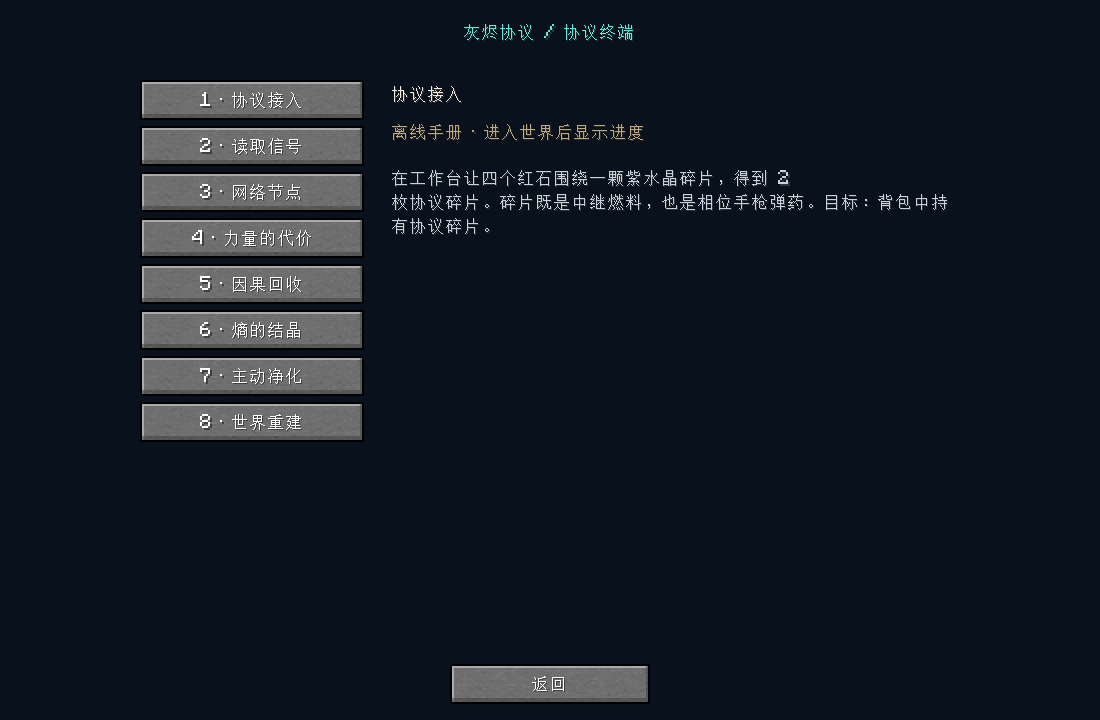
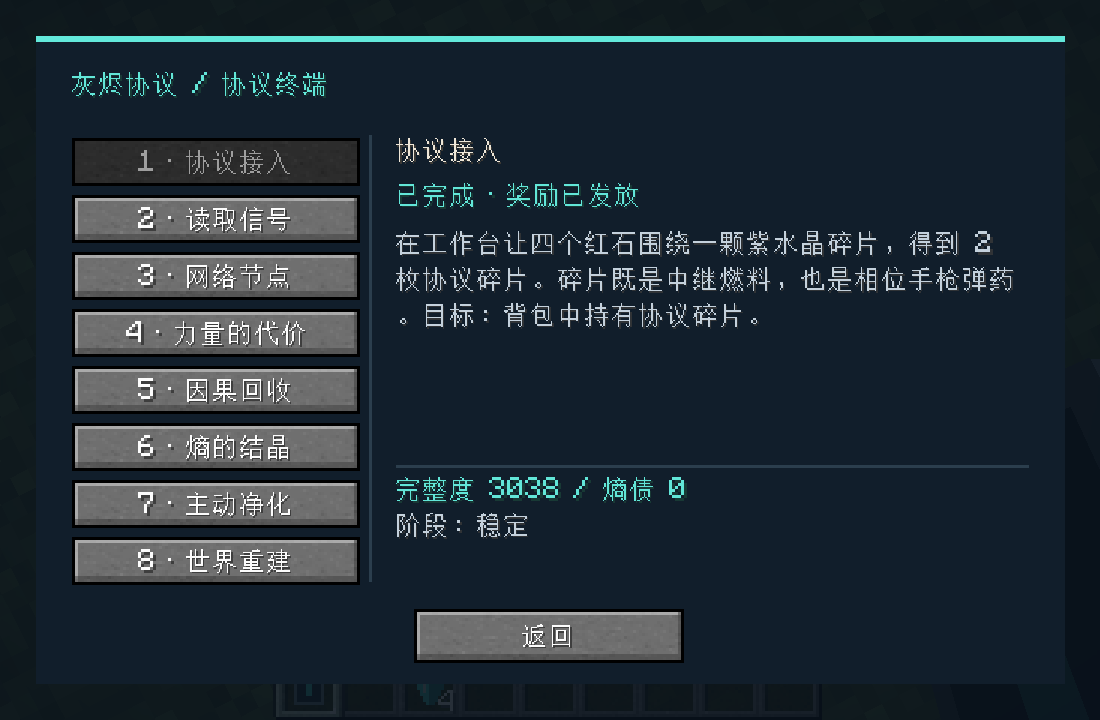
Center responsive tutorial panels and expose PCL EXE without startup scripts

diff --git a/src/main/java/dev/yuni/ashenprotocol/client/ProtocolJournalScreen.java b/src/main/java/dev/yuni/ashenprotocol/client/ProtocolJournalScreen.java
@@ -21,29 +21,75 @@ public final class ProtocolJournalScreen extends Screen {
         "建设并维护中继网络，直到完整度至少 3000、熵债低于 1000，且完成一次主动净化。高熵会带来黑暗、残影与视觉闪电。任务只奖励一次经验，死亡不重置。达成重建后仍可继续生存。"
     };
     public ProtocolJournalScreen(Screen parent) { super(Component.literal("协议终端")); this.parent = parent; }
+    private int scroll;
+    private int panelX, panelY, panelWidth, panelHeight, navWidth, bodyX, bodyY, bodyWidth, bodyBottom;
+    private final java.util.List<Button> chapters = new java.util.ArrayList<>();
     @Override protected void init() {
-        int left = Math.max(8, width / 2 - 205), top = 40;
+        chapters.clear();
+        panelWidth = Math.min(760, width - 24);
+        panelHeight = Math.min(420, height - 24);
+        panelX = (width - panelWidth) / 2;
+        panelY = (height - panelHeight) / 2;
+        navWidth = Math.max(96, Math.min(160, panelWidth / 4));
+        bodyX = panelX + navWidth + 24;
+        bodyY = panelY + 65;
+        bodyWidth = panelX + panelWidth - 14 - bodyX;
+        bodyBottom = panelY + panelHeight - 78;
+        int gap = Math.min(26, (panelHeight - 64) / 8);
         for (int i = 0; i < DETAILS.length; i++) {
             final int n = i;
-            addRenderableWidget(Button.builder(Component.literal((i + 1) + " · " + Progression.TITLES[i]), b -> chapter = n).bounds(left, top + i * 23, 112, 20).build());
+            Button b = Button.builder(Component.literal((i + 1) + " · " + Progression.TITLES[i]), button -> { chapter = n; scroll = 0; })
+                .bounds(panelX + 12, panelY + 34 + i * gap, navWidth, Math.max(14, gap - 3)).build();
+            chapters.add(b); addRenderableWidget(b);
         }
-        addRenderableWidget(Button.builder(Component.literal("返回"), b -> onClose()).bounds(width / 2 - 50, height - 28, 100, 20).build());
+        addRenderableWidget(Button.builder(Component.literal("返回"), b -> onClose())
+            .bounds(width / 2 - 45, panelY + panelHeight - 25, 90, 18).build());
+    }
+    private int maxScroll() {
+        return Math.max(0, font.split(Component.literal(DETAILS[chapter]), bodyWidth).size() * 12 - (bodyBottom - bodyY));
+    }
+    @Override public boolean mouseScrolled(double mx, double my, double amount) {
+        if (mx >= bodyX && mx < bodyX + bodyWidth && my >= bodyY && my < bodyBottom) {
+            scroll = net.minecraft.util.Mth.clamp(scroll - (int)(amount * 24), 0, maxScroll());
+            return true;
+        }
+        return super.mouseScrolled(mx, my, amount);
     }
     @Override public void render(GuiGraphics g, int mx, int my, float delta) {
-        g.fill(0, 0, width, height, 0xf509121c);
-        g.drawCenteredString(font, "灰烬协议 / 协议终端", width / 2, 12, 0xff63e9db);
-        int left = Math.max(8, width / 2 - 205), x = left + 126, w = Math.max(100, width - x - 16);
-        g.drawString(font, Progression.TITLES[chapter], x, 43, 0xfff2eadb);
+        g.fill(0, 0, width, height, 0xe009121c);
+        g.fill(panelX, panelY, panelX + panelWidth, panelY + panelHeight, 0xff111e2b);
+        g.fill(panelX, panelY, panelX + panelWidth, panelY + 2, 0xff63e9db);
+        g.fill(bodyX - 9, panelY + 33, bodyX - 8, panelY + panelHeight - 34, 0xff2b3e4d);
+        g.drawString(font, "灰烬协议 / 协议终端", panelX + 12, panelY + 12, 0xff63e9db);
+        for (int i = 0; i < chapters.size(); i++) chapters.get(i).active = i != chapter;
+        g.drawString(font, Progression.TITLES[chapter], bodyX, panelY + 34, 0xfff2eadb);
         boolean done = (ClientState.milestones & (1 << chapter)) != 0;
-        g.drawString(font, ClientState.connected ? (done ? "已完成 · 经验奖励已发放" : "进行中 · 完成条件后自动记录") : "离线手册 · 进入世界后显示进度", x, 62, done ? 0xff63e9db : 0xffb9a984);
-        int y = 85;
-        for (var line : font.split(Component.literal(DETAILS[chapter]), Math.min(w, 280))) { g.drawString(font, line, x, y, 0xffc6d3df); y += 12; }
-        if (ClientState.connected) {
-            int statusY = Math.max(y + 12, height - 81);
-            g.drawString(font, "完整度 " + ClientState.integrity + " / 熵债 " + ClientState.entropy, x, statusY, 0xff63e9db);
-            g.drawString(font, "阶段：" + ProtocolPhase.from(ClientState.integrity, ClientState.entropy).zh(), x, statusY + 13, 0xffc6d3df);
-            if (!ClientState.echo.isEmpty()) g.drawString(font, "回声：" + ClientState.echo, x, statusY + 26, 0xffbc90df);
+        String state = ClientState.connected ? (done ? "已完成 · 奖励已发放" : "进行中 · 自动记录") : "离线教程";
+        g.drawString(font, state, bodyX, panelY + 49, done ? 0xff63e9db : 0xffb9a984);
+        scroll = net.minecraft.util.Mth.clamp(scroll, 0, maxScroll());
+        g.enableScissor(bodyX, bodyY, bodyX + bodyWidth, bodyBottom);
+        int y = bodyY - scroll;
+        for (var line : font.split(Component.literal(DETAILS[chapter]), bodyWidth)) {
+            g.drawString(font, line, bodyX, y, 0xffc6d3df); y += 12;
         }
+        g.disableScissor();
+        if (maxScroll() > 0) {
+            int track = bodyBottom - bodyY;
+            int thumb = Math.max(8, track * track / (track + maxScroll()));
+            int top = bodyY + scroll * (track - thumb) / maxScroll();
+            g.fill(bodyX + bodyWidth + 3, bodyY, bodyX + bodyWidth + 5, bodyBottom, 0xff293944);
+            g.fill(bodyX + bodyWidth + 3, top, bodyX + bodyWidth + 5, top + thumb, 0xff63e9db);
+        }
+        int statusY = panelY + panelHeight - 69;
+        g.fill(bodyX, statusY - 4, panelX + panelWidth - 12, statusY - 3, 0xff2b3e4d);
+        if (ClientState.connected) {
+            g.drawString(font, "完整度 " + ClientState.integrity + " / 熵债 " + ClientState.entropy, bodyX, statusY, 0xff63e9db);
+            g.drawString(font, "阶段：" + ProtocolPhase.from(ClientState.integrity, ClientState.entropy).zh(), bodyX, statusY + 12, 0xffc6d3df);
+            if (!ClientState.echo.isEmpty()) {
+                g.enableScissor(bodyX, statusY + 24, bodyX + bodyWidth, statusY + 35);
+                g.drawString(font, "回声：" + ClientState.echo, bodyX, statusY + 24, 0xffbc90df); g.disableScissor();
+            }
+        } else g.drawString(font, "进入世界后同步任务状态", bodyX, statusY, 0xff899aa9);
         super.render(g, mx, my, delta);
     }
     @Override public void onClose() { minecraft.setScreen(parent); }

diff --git a/tools/package.py b/tools/package.py
@@ -1,10 +1,10 @@
 """Build a self-contained CurseForge-format PCL ZIP from this project's own JAR."""
 from pathlib import Path
-import json,zipfile,hashlib,tomllib,io,struct,argparse,subprocess
+import json,zipfile,hashlib,tomllib,io,struct,argparse
 ROOT=Path(__file__).resolve().parents[1]
 props=dict(line.split('=',1) for line in (ROOT/'gradle.properties').read_text().splitlines() if '=' in line and not line.startswith('#'))
 version=props['mod_version'];launcher=ROOT/'distribution/PCL/Plain Craft Launcher 2.exe'
-if not launcher.exists():launcher=ROOT.parent/'PCL/Plain Craft Launcher 2.exe'
+if not launcher.exists():launcher=ROOT.parent/'Plain Craft Launcher 2.exe'
 assert launcher.exists(), 'Missing bundled PCL binary'
 jar=ROOT/f'build/libs/ashenprotocol-{version}.jar'
 p=argparse.ArgumentParser();p.add_argument('--output',type=Path,default=ROOT/'build/release');args=p.parse_args();args.output.mkdir(parents=True,exist_ok=True)
@@ -20,7 +20,7 @@ with zipfile.ZipFile(jar) as j:
 manifest={'minecraft':{'version':props['minecraft_version'],'modLoaders':[{'id':'forge-'+props['forge_version'],'primary':True}]},'manifestType':'minecraftModpack','manifestVersion':1,'name':'灰烬协议：回声网络 · 自研原生版 '+version,'version':version,'author':'yuniaries','overrides':'overrides','files':[]}
 readme='''灰烬协议：回声网络 — yuniaries 自研原生版
 已有PCL：把整个ZIP拖入PCL，安装为新版本后启动、新建世界。
-没有PCL：解压本ZIP，运行启动PCL.bat或PCL目录内的exe，再把下载的同一ZIP拖入启动器安装。
+没有PCL：解压本ZIP，双击根目录的 Plain Craft Launcher 2.exe，再把下载的同一ZIP拖入启动器安装。
 首次安装需要联网；Java、Minecraft、Forge与运行库由启动器检测或下载，本包不是离线游戏本体。
 Minecraft 1.20.1 / Forge 47.3.22 / Java 17（64位），建议分配3–4GB内存。
 PCL首次安装需联网下载Minecraft和Forge；自研MOD已内置，无需手工补依赖。
@@ -35,23 +35,30 @@ PCL首次安装需联网下载Minecraft和Forge；自研MOD已内置，无需手
 '''
 name=f'灰烬协议_自研原生版_{version}_拖入PCL.zip';out=args.output/name
 with zipfile.ZipFile(out,'w',zipfile.ZIP_DEFLATED,compresslevel=9) as z:
- for rel in subprocess.check_output(['git','ls-files','-z'],cwd=ROOT).decode().split('\0'):
-  if rel and (ROOT/rel).is_file() and not rel.startswith('distribution/PCL/'):z.write(ROOT/rel,'source/'+rel)
- for file in launcher.parent.iterdir():
-  if file.is_file():z.write(file,'PCL/'+file.name)
- z.writestr('启动PCL.bat', b'@echo off\r\nstart "" "%~dp0PCL\\Plain Craft Launcher 2.exe"\r\n')
+ for name in ['.gitattributes','.github','.gitignore','LICENSE','README.md','build.gradle','docs','gradle.properties','gradle','gradlew','gradlew.bat','settings.gradle','src','tools']:
+  path=ROOT/name
+  files=sorted(path.rglob('*')) if path.is_dir() else [path]
+  for file in files:
+   if file.is_file() and '__pycache__' not in file.parts and file.suffix not in ['.pyc','.class']:
+    z.write(file,'source/'+file.relative_to(ROOT).as_posix())
+ z.write(launcher,'Plain Craft Launcher 2.exe')
+ licence_dir=launcher.parent if launcher.parent.name=='PCL' else launcher.parent/'PCL说明'
+ for name in ['LICENCE.txt','来源说明.txt']:
+  file=licence_dir/name
+  assert file.exists()
+  z.write(file,'PCL说明/'+name)
  z.writestr('manifest.json',json.dumps(manifest,ensure_ascii=False,indent=2)+'\n')
  z.writestr('overrides/mods/'+jar.name,jar.read_bytes())
- z.writestr('overrides/options.txt','lang:zh_cn\nguiScale:2\nrenderDistance:10\nsimulationDistance:6\nmaxFps:120\nautoJump:false\n')
+ z.writestr('overrides/options.txt','lang:zh_cn\nguiScale:0\nrenderDistance:10\nsimulationDistance:6\nmaxFps:120\nautoJump:false\n')
  z.writestr('安装与玩法说明.txt',readme)
  z.writestr('overrides/灰烬协议玩法说明.txt',readme)
 with zipfile.ZipFile(out) as z:
  assert z.testzip() is None
  assert [n for n in z.namelist() if n.startswith('overrides/mods/') and n.endswith('.jar')]==['overrides/mods/'+jar.name]
  assert z.read('overrides/mods/'+jar.name)==jar.read_bytes()
- assert z.read('PCL/Plain Craft Launcher 2.exe')==launcher.read_bytes()
+ assert z.read('Plain Craft Launcher 2.exe')==launcher.read_bytes()
  assert 'source/tools/package.py' in z.namelist()
- assert z.read('启动PCL.bat') == b'@echo off\r\nstart "" "%~dp0PCL\\Plain Craft Launcher 2.exe"\r\n'
+ assert not any(n.endswith('启动PCL.bat') for n in z.namelist())
 (args.output/'SHA256SUMS.txt').write_text(hashlib.sha256(out.read_bytes()).hexdigest()+'  '+name+'\n')
 (args.output/'安装与玩法说明.txt').write_text(readme)
 print(out,'bytes',out.stat().st_size)

diff --git a/src/runtimeTest/java/dev/yuni/ashenprotocol/verification/ClientSmoke.java b/src/runtimeTest/java/dev/yuni/ashenprotocol/verification/ClientSmoke.java
@@ -21,6 +21,7 @@ public final class ClientSmoke {
         if (mc.player == null || !ClientState.connected || mc.getSingleplayerServer() == null) return;
         ticks++;
         if (ticks == 20) {
+            mc.options.guiScale().set(0); mc.resizeDisplay();
             var uuid = mc.player.getUUID();
             mc.getSingleplayerServer().execute(() -> {
                 var player = mc.getSingleplayerServer().getPlayerList().getPlayer(uuid);
@@ -46,6 +47,19 @@ public final class ClientSmoke {
             Screenshot.grab(mc.gameDirectory, "native-journal.png", mc.getMainRenderTarget(), c -> System.out.println("AP_CLIENT_JOURNAL: " + c.getString()));
             System.out.println("AP_CLIENT_SMOKE_SUCCESS: network state, real inventory, HUD and J-key journal rendered without social key conflict; milestones=" + ClientState.milestones);
         }
-        if (ticks == 120) mc.stop();
+        if (ticks == 120) mc.getWindow().setWindowed(2560,1440);
+        if (ticks == 140) {
+            for (var listener : mc.screen.children()) if (listener instanceof net.minecraft.client.gui.components.Button b && b.getMessage().getString().startsWith("7")) b.onPress();
+        }
+        if (ticks == 160 || ticks == 200) {
+            for (var listener : mc.screen.children()) if (listener instanceof net.minecraft.client.gui.components.AbstractWidget b) {
+                if (b.getX()<0 || b.getY()<0 || b.getX()+b.getWidth()>mc.screen.width || b.getY()+b.getHeight()>mc.screen.height)
+                    throw new IllegalStateException("responsive journal widget outside viewport");
+            }
+            Screenshot.grab(mc.gameDirectory, ticks==160 ? "native-journal-large-auto.png" : "native-journal-large-scale2.png", mc.getMainRenderTarget(), c -> System.out.println("AP_CLIENT_LAYOUT: " + c.getString()));
+            System.out.println("AP_CLIENT_LAYOUT_PASS: " + mc.getWindow().getScreenWidth() + "x" + mc.getWindow().getScreenHeight() + ", GUI=" + mc.getWindow().getGuiScaledWidth() + "x" + mc.getWindow().getGuiScaledHeight());
+        }
+        if (ticks == 180) { mc.options.guiScale().set(2); mc.resizeDisplay(); }
+        if (ticks == 220) mc.stop();
     }
 }

diff --git a/src/main/java/dev/yuni/ashenprotocol/client/ProtocolTitleScreen.java b/src/main/java/dev/yuni/ashenprotocol/client/ProtocolTitleScreen.java
@@ -17,7 +17,7 @@ public final class ProtocolTitleScreen extends Screen {
         addRenderableWidget(Button.builder(Component.literal(name), action).bounds(x, y, w, 20).build());
     }
     @Override protected void init() {
-        minecraft.getWindow().setTitle("灰烬协议：回声网络 | yuniaries | 0.2.1");
+        minecraft.getWindow().setTitle("灰烬协议：回声网络 | yuniaries | 0.2.2");
         int x = width / 2 - 100, y = Math.max(68, height / 2 - 55);
         button("进入世界", x, y, 200, b -> minecraft.setScreen(new SelectWorldScreen(this)));
         button("连接服务器", x, y + 22, 200, b -> minecraft.setScreen(new JoinMultiplayerScreen(this)));
@@ -36,7 +36,7 @@ public final class ProtocolTitleScreen extends Screen {
         g.drawCenteredString(font, "ASHEN PROTOCOL", mid, Math.max(10, height / 2 - 113), 0xff63e9db);
         g.drawCenteredString(font, "灰烬协议：回声网络", mid, Math.max(30, height / 2 - 88), 0xfff2eadb);
         g.drawCenteredString(font, "每一次重建，都需要面对力量的代价。", mid, Math.max(48, height / 2 - 70), 0xffa1b4c5);
-        g.drawString(font, "灰烬协议 0.2.1 · yuniaries", 8, height - 12, 0xff899aa9);
+        g.drawString(font, "灰烬协议 0.2.2 · yuniaries", 8, height - 12, 0xff899aa9);
         super.render(g, mouseX, mouseY, delta);
     }
     @Override public boolean shouldCloseOnEsc() { return false; }

diff --git a/src/main/java/dev/yuni/ashenprotocol/client/ClientEvents.java b/src/main/java/dev/yuni/ashenprotocol/client/ClientEvents.java
@@ -35,13 +35,13 @@ public final class ClientEvents {
                     mc.options.save();
                 }
             }
-            if (mc.player.tickCount % 20 == 0) mc.getWindow().setTitle("灰烬协议：回声网络 | yuniaries | 0.2.1");
+            if (mc.player.tickCount % 20 == 0) mc.getWindow().setTitle("灰烬协议：回声网络 | yuniaries | 0.2.2");
             while (JOURNAL.consumeClick()) mc.setScreen(new ProtocolJournalScreen(null));
         }
     }
     @SubscribeEvent public static void hud(RenderGuiEvent.Post e) {
         var mc = Minecraft.getInstance();
-        if (mc.player == null || mc.options.hideGui || !ClientState.connected) return;
+        if (mc.player == null || mc.screen != null || mc.options.hideGui || !ClientState.connected) return;
         if (!mc.player.getMainHandItem().is(ModItems.ENTROPY_METER.get()) && !mc.player.getOffhandItem().is(ModItems.ENTROPY_METER.get())) return;
         var g = e.getGuiGraphics();
         g.fill(6, 6, 186, 49, 0xc009121c);

diff --git a/README.md b/README.md
@@ -2,7 +2,7 @@
 
 由 **yuniaries** 开发的 Minecraft 1.20.1 / Forge 47.3.22 原生玩法项目，Java 17。
 
-项目主页：<https://github.com/yuniaries/AshenProtocol>。PCL 安装 ZIP 位于 [Releases](https://github.com/yuniaries/AshenProtocol/releases)。下载文件名中带“拖入PCL”的完整 ZIP，拖入启动器并安装为新版本。ZIP统一包含游戏MOD、纹理、配置、源码、文档和用户提供的未修改PCL 2.13.1.1启动器。没有启动器时先解压ZIP，运行 `启动PCL.bat`，再将同一个ZIP拖入启动器。首次安装需联网下载 Minecraft、Forge 和运行库；自研 MOD 已内置。建议分配 3–4 GB 内存。
+项目主页：<https://github.com/yuniaries/AshenProtocol>。PCL 安装 ZIP 位于 [Releases](https://github.com/yuniaries/AshenProtocol/releases)。下载文件名中带“拖入PCL”的完整 ZIP，拖入启动器并安装为新版本。ZIP统一包含游戏MOD、纹理、配置、源码、文档和用户提供的未修改PCL 2.13.1.1启动器。没有启动器时先解压ZIP，双击根目录的 `Plain Craft Launcher 2.exe`，再将同一个ZIP拖入启动器。首次安装需联网下载 Minecraft、Forge 和运行库；自研 MOD 已内置。建议分配 3–4 GB 内存。
 
 ![原生主菜单](docs/images/main-menu.png)
 

diff --git a/docs/VALIDATION.md b/docs/VALIDATION.md
@@ -21,3 +21,7 @@
 ## 0.2.1 修复
 
 教程默认键改为 J，进入世界时修复与原版社交按键相同的旧绑定；客户端探针模拟真实按键分发，检查 J 能打开单人游戏中的协议终端。主菜单精简署名，GitHub 主页与仓库入口仅指向 yuniaries。完整 ZIP 增加 source 目录，源码、素材生成器、说明与游戏资源统一交付。
+
+## 0.2.2 全屏布局与交付
+
+教程改为居中且尺寸受视口限制的面板；章节、正文、状态与返回键在同一面板中，长正文可滚动并裁剪。新安装默认自动GUI缩放。窗口与2560×1440大窗口分别检查自动缩放及GUI=2旧设置，所有按钮必须在视口内。交付ZIP根目录直接放未修改PCL EXE，无启动BAT。
